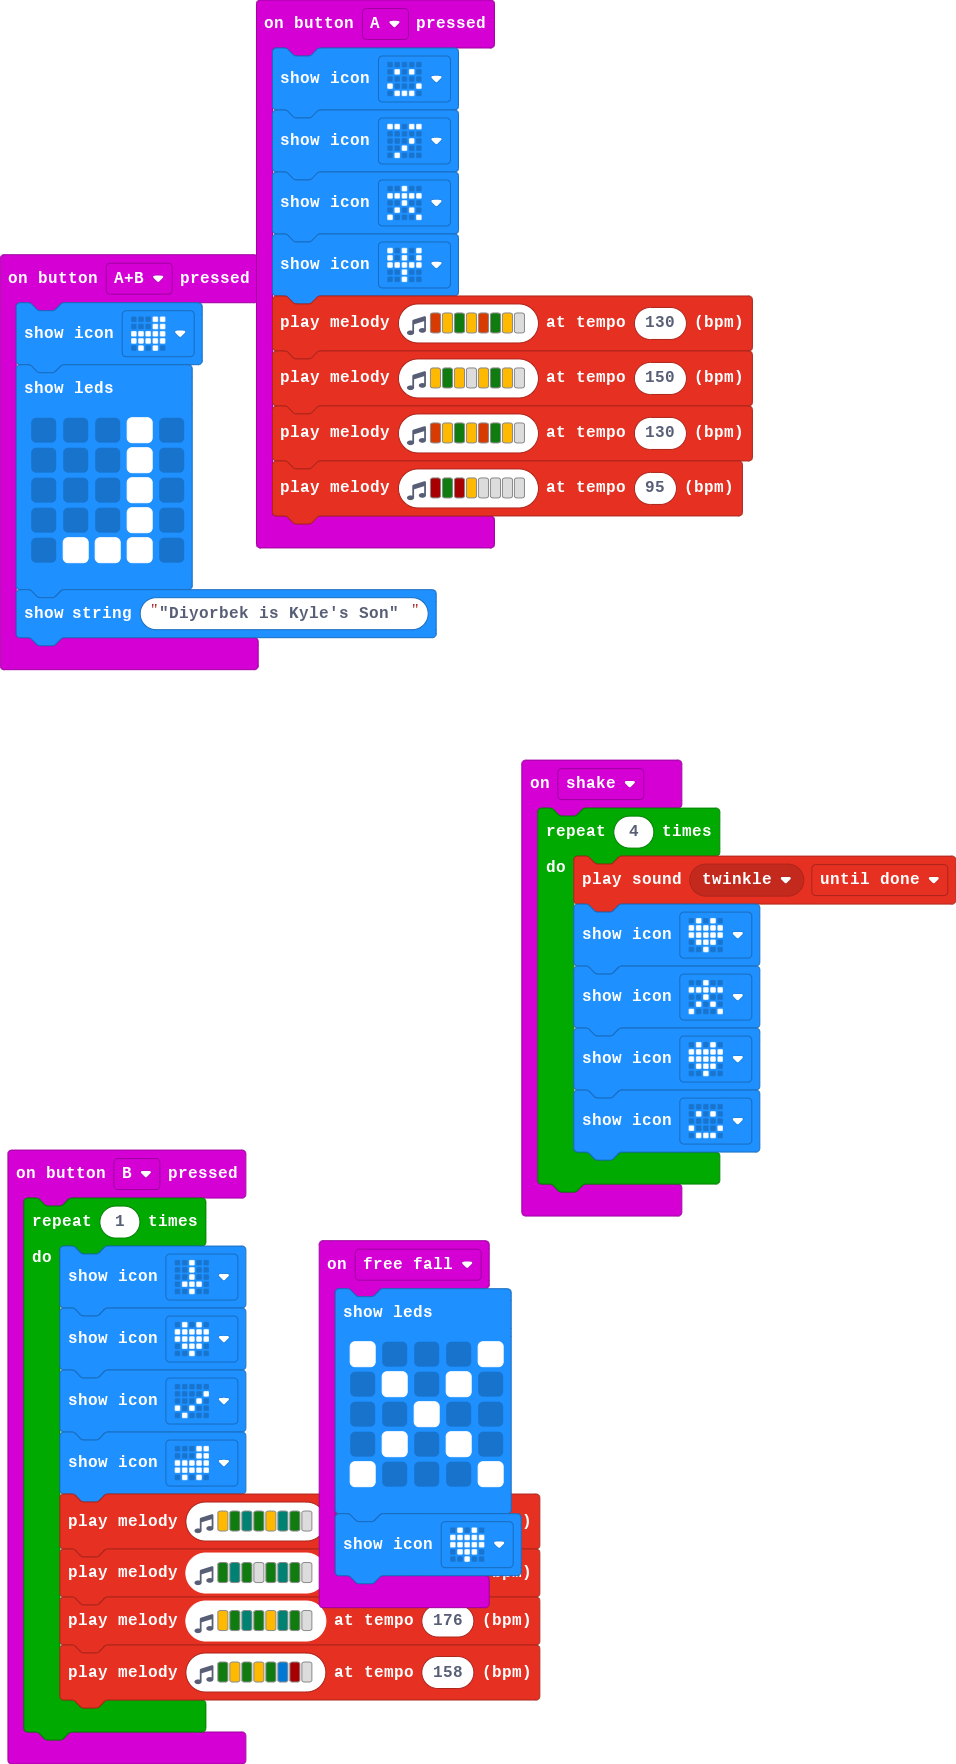
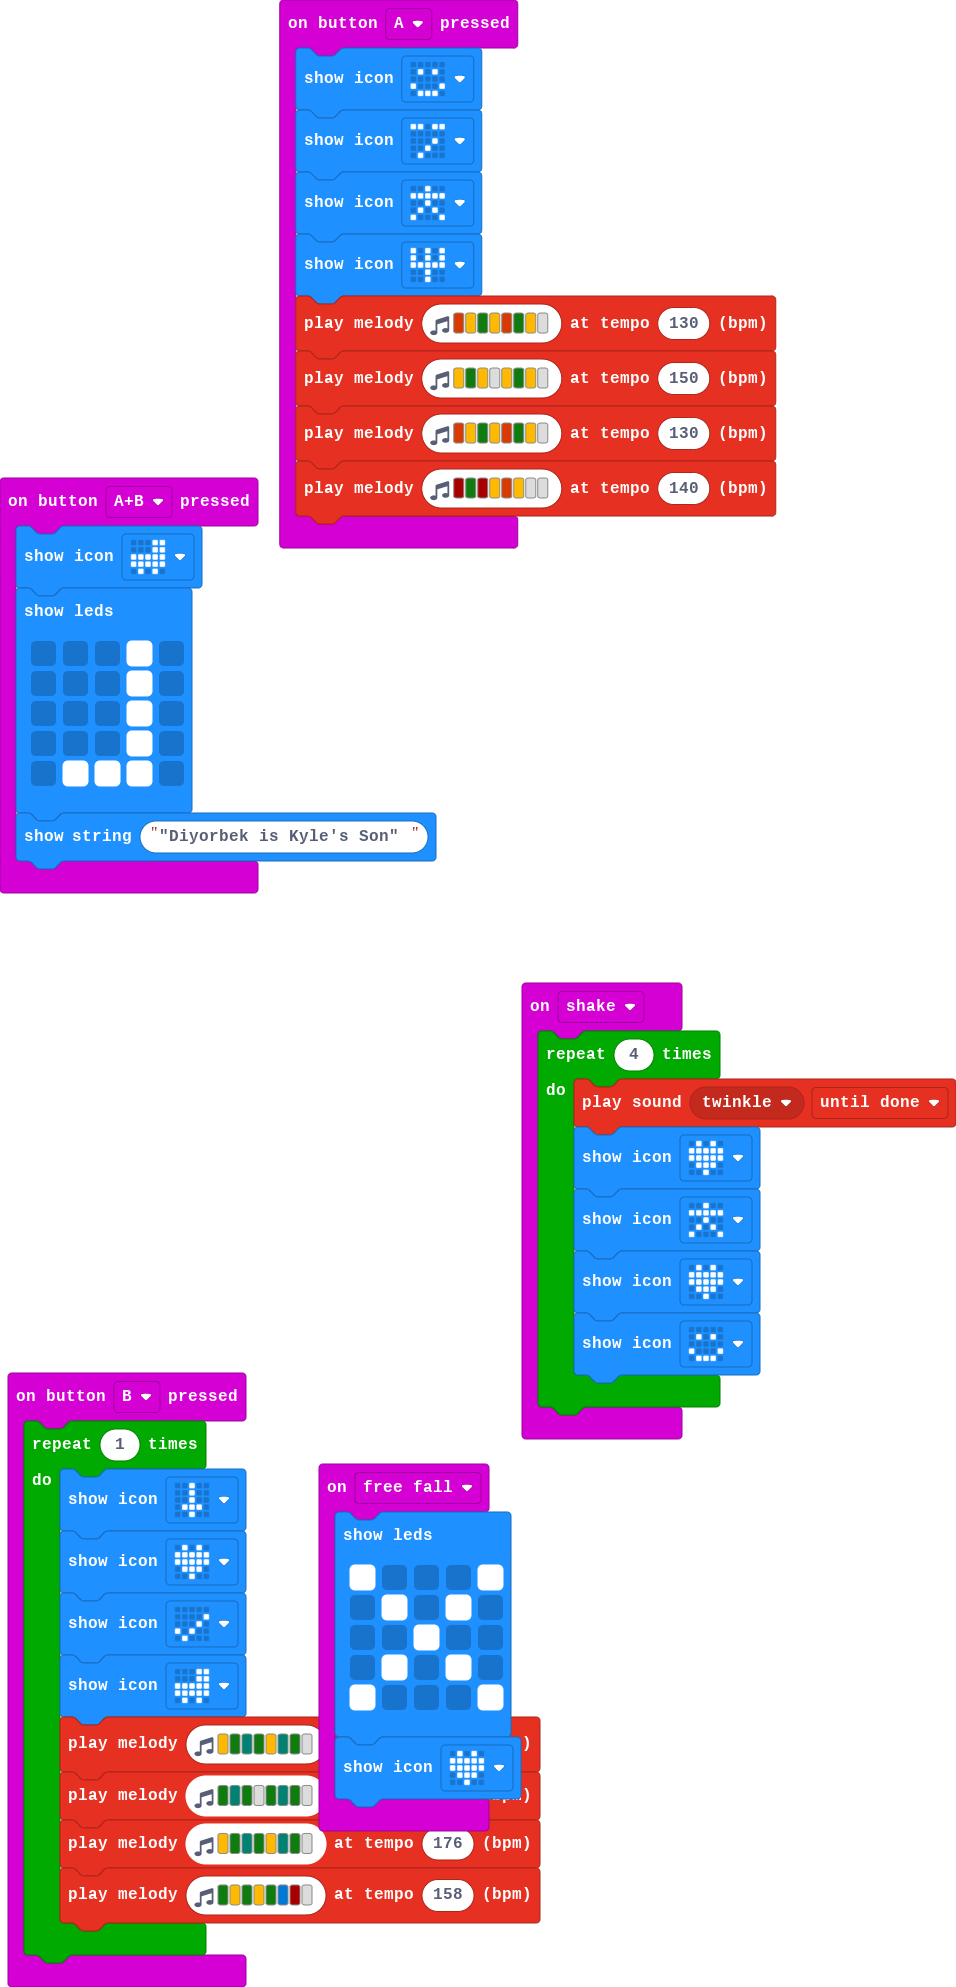
Update main.blocks, main.ts

Changed region(s): [[0.0, 0.4053, 1.0, 0.9977], [0.0, 0.0, 0.819, 0.4677]]

diff --git a/main.ts b/main.ts
@@ -6,7 +6,7 @@ input.onButtonPressed(Button.A, function () {
     music.playMelody("B A G A B G A - ", 130)
     music.playMelody("A G A - A G A - ", 150)
     music.playMelody("B A G A B G A - ", 130)
-    music.playMelody("C5 G C5 A - - - - ", 95)
+    music.playMelody("C5 G C5 A B A - - ", 140)
 })
 input.onGesture(Gesture.FreeFall, function () {
     basic.showLeds(`
